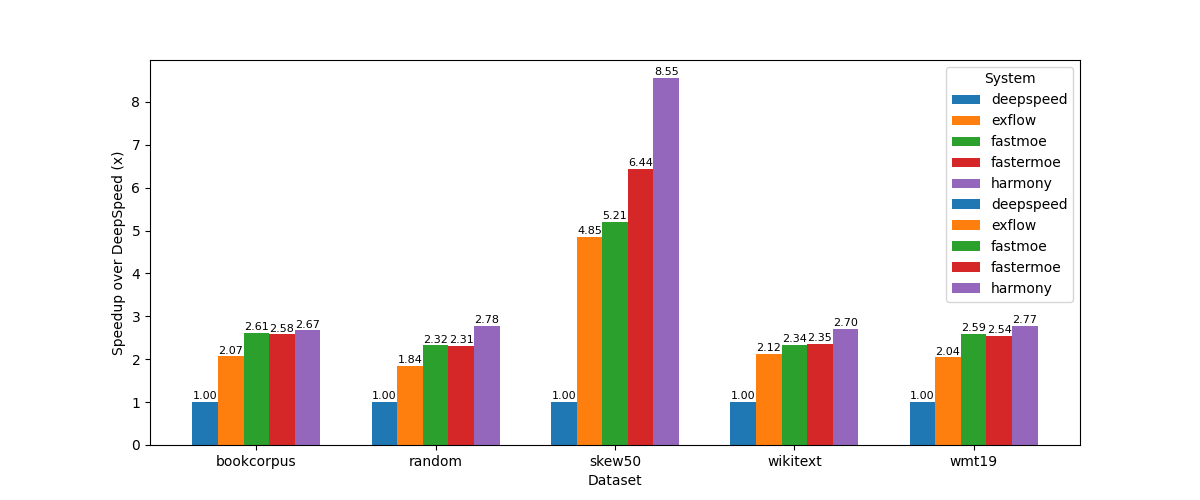
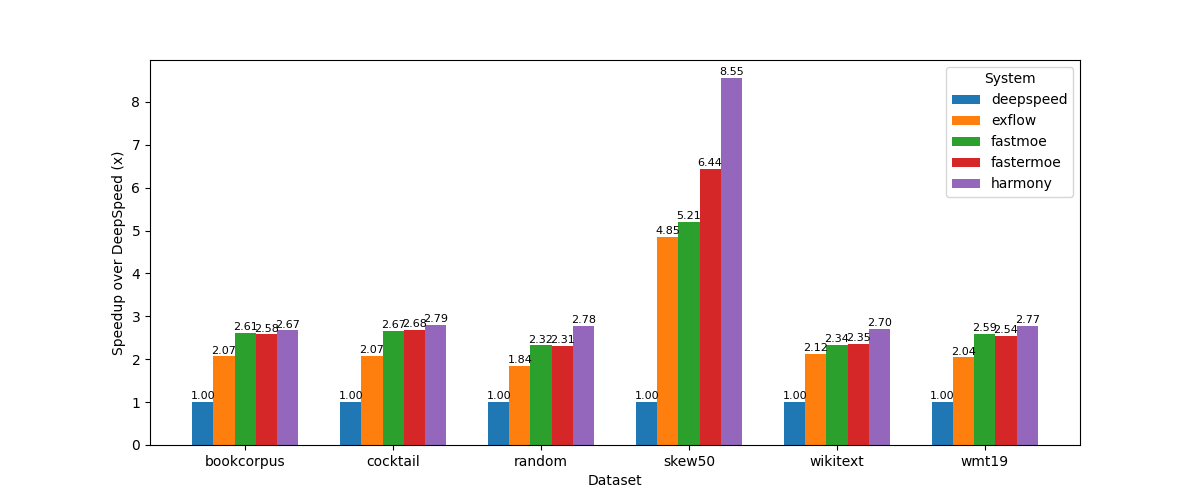
Got working with cocktail

Changed region(s): [[0.1542, 0.12, 0.8633, 0.93], [0.7708, 0.39, 0.8942, 0.6]]

diff --git a/plotting/plot_systems.py b/plotting/plot_systems.py
@@ -7,7 +7,7 @@ from utils import save_plot
 num_moe_layers = 12
 
 metrics = ["avg_gpu_util", "avg_gpu_mem_used", "cpu_util", "cpu_mem_used"]
-datasets = ["bookcorpus", "wikitext", "random", "wmt19", "skew50"]
+datasets = ["bookcorpus", "wikitext", "random", "wmt19", "skew50", "cocktail"]
 systems = ["deepspeed", "exflow", "fastmoe", "fastermoe", "harmony"]
 
 def plot_workload_duration_policy_vs_dataset():
@@ -76,10 +76,6 @@ def plot_workload_duration_proportion_policy_vs_dataset():
 
     color_palette = colormaps.get_cmap("tab10")  
     system_colors = {system: color_palette(i) for i, system in enumerate(systems)}
-
-    for i, (dataset, positions) in enumerate(zip(pivot_df.index, x_positions)):
-        for j, sys in enumerate(pivot_df.columns):
-            ax.bar(positions[j], pivot_df.loc[dataset, sys], width=bar_width, color=system_colors[sys], label=sys if i == 0 else "")
 
     for i, (dataset, positions) in enumerate(zip(pivot_df.index, x_positions)):
         for j, sys in enumerate(pivot_df.columns):

diff --git a/src/flexible_dataset.py b/src/flexible_dataset.py
@@ -66,7 +66,7 @@ class FlexibleDataset(Dataset):
             text = "translate English to German: " + self.dataset[idx % self.dataset_length]["translation"]["en"]
         elif self.dataset_option == "cocktail":
             num = random.randint(0,len(self.datasets)-1)
-            data = self.datasets[num][(idx//4)% self.dataset_lengths[num]]
+            data = self.datasets[num][(idx//4) % self.dataset_lengths[num]]
             if num == 0 or num == 1:
                 data = data["text"]
             elif num == 2:

diff --git a/plotting/create_csv_systems.py b/plotting/create_csv_systems.py
@@ -8,7 +8,7 @@ directory_path = "../data/systems/datasets"
 data = Data(directory_path)
 
 systems = ["deepspeed", "fastmoe", "fastermoe", "harmony", "exflow"]
-datasets = ["bookcorpus", "random", "wikitext", "wmt19", "skew50"]
+datasets = ["bookcorpus", "random", "wikitext", "wmt19", "skew50", "cocktail"]
 num_ranks = 8
 num_moe_layers = 12
 
